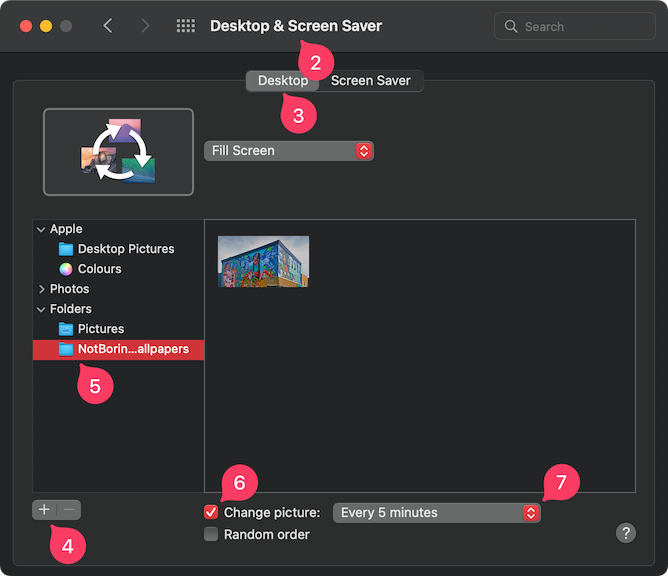
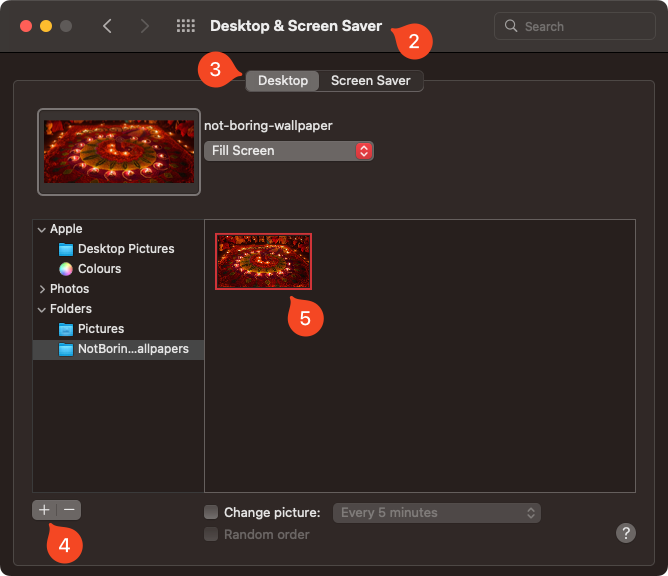
Force-kill Dock process to refresh wallpaper immediately

diff --git a/README.md b/README.md
@@ -14,12 +14,10 @@ A macOS `launchd` agent downloading a new [Bing Wallpaper](https://www.microsoft
 2. Go to **System Preferences** › **Desktop & Screen Saver**  
 ![Guide](docs/installation.png?raw=true "Guide")  
 3. Select **Desktop** tab
-4. Add a new folder
-5. Select the `~/NotBoringWallpapers` folder created in step `1`.
-6. Enable **Change pictures**
-7. Select **Every 5 minutes**
-8. [Optional] Go to **Dock** › **System Preferences** › **Right Click** › **Options** › **Assign To** › **All Desktops** and  
-repeat steps `5`-`7` for each Space or Display  
+4. Add the `~/NotBoringWallpapers` folder created in step `1`
+5. Select a wallpaper.
+6. [Optional] Go to **Dock** › **System Preferences** › **Right Click** › **Options** › **Assign To** › **All Desktops** and  
+repeat step `5` for each Space or Display  
 
 # Uninstall
 ```bash
